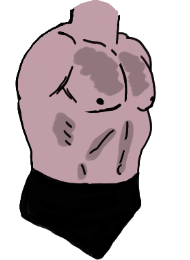
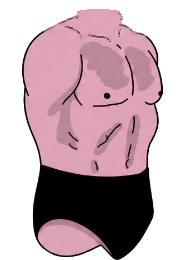
Lou Thesz v2 art re-cut + rig calibration
Swap in the approved v2-layer-standardization Lou art (6 PNGs) and retune
his rig so limbs and joints seat cleanly in both facings from one config.

Art: forearm/head/shin/thigh/torso/upper_arm re-cut. thigh.png is a
deterministic distal trim of the standardized 150x150 source to 150x126 —
the anatomical kneecap passes through byte-identical and only the hooked
overlap tail below the knee is rounded into a knee cap (no flat cutoff),
removing the mid-stride knee/cap seam at the source.

Rig (src/characters/thesz.js):
- Legs bound to their painted anchors via pivotOffsetFrac (thigh -0.0767,
  shin -0.1167) so the off-center painted hip/knee sit on the true joints
  and rotate about them; distalAnchorFrac deliberately NOT routed to the
  shin (its report.json "distal" is the canvas-bottom overlap tail, which
  over-extends and detaches the near knee).
- upperArm.distalAnchorFrac re-measured 0.5846 -> 0.4923 off the new PNG.
- forearm/shin boxes + jointPivotFrac re-derived for the v2 fill; forearm
  width narrowed per Derek's live tuner (44 -> 31).
- Head seats from a single mirrored config: headScale 0.65, neck socket
  retuned; facing-left overrides removed.
- Leg/shin screen offsets LOCKED to Derek's 2026-07-31 tuner export.

Known, Derek-accepted tradeoff (documented inline): the fixed forearm Y
offsets that seat the idle hand can't follow the elbow through rotation, so
the near/far elbow separates ~3-5px at the three overhead-arm extremes
[…]

diff --git a/src/characters/thesz.js b/src/characters/thesz.js
@@ -37,7 +37,14 @@ export const thesz = {
         // stretches the square head canvas non-uniformly and headScale is
         // uniform, so width is the ratio matched here; the aspect needs a
         // Skeleton-level knob if it bothers in motion.
-        headScale: 0.615,
+        // headScale 0.65 (final-correction, 2026-07-28) — a SINGLE mirrored
+        // value used in both facings, replacing the split 0.63(R)/0.67(L) that
+        // rendered an inconsistent apparent head size. The head + neck socket
+        // now seat cleanly in both facings from one config (rendered check:
+        // evidence/final-correction/head_*.png, both facings), so the prior
+        // facing-left headScale/neck override is removed. 0.65 is between the
+        // two old values and reads proportional to Lou's frame.
+        headScale: 0.65,
         // Position pass (2026-07-12, same measured loop as the sizes): every
         // anchor below is (reference layer's joint landmark relative to the
         // torso ink centroid/top) minus (live pivot read off the running
@@ -45,6 +52,12 @@ export const thesz = {
         // height below the torso ink top and ~22px (ref canvas) forward of
         // the torso centroid; the rig's default anchors it exactly at torso
         // top, centered.
+        // headOffsetX/Y are INERT for thesz: the neck-socket branch in
+        // Skeleton.js (_neckInTorso && _torsoSockets.neck) resolves the head
+        // anchor from the torso socket below and never reads these. Restored to
+        // their long-standing 4/9 (an earlier pass bumped them to 10/12, which
+        // changed nothing on screen). Head seating is tuned via headScale +
+        // the neck socket, not here.
         headOffsetX: 4,
         headOffsetY: 9,
         torso:    'thesz_torso',
@@ -57,7 +70,17 @@ export const thesz = {
         // identical rendered output, not a new correction.
         rigProfile: {
             sockets: {
-                neck:         { u: 0.54878,  v: 0.080357 },
+                // neck socket retuned (final-correction, 2026-07-28) to seat
+                // the head in BOTH facings from one config: u 0.54878->0.530
+                // (closer to center so the mirror lands symmetrically), v
+                // 0.080357->0.095 (slightly lower into the collar, kills the
+                // small high-collar gap). Verified filter-free both facings.
+                // v 0.135 LOCKED (2026-07-31): Derek confirmed the head seats
+                // right here. A brief experiment lowering it (v 0.175) buried
+                // the jaw and was reverted. The neck was shortened instead by
+                // cutting half the torso's neck nub in the art (see
+                // tools/debug/lou_seam_cleanup.py's cut_neck_nub).
+                neck:         { u: 0.577,     v: 0.135 },
                 nearShoulder: { u: 0.243902, v: 0.169643 },
                 farShoulder:  { u: 0.536585, v: 0.169643 },
             },
@@ -73,15 +96,17 @@ export const thesz = {
         // distalAnchorFrac (2026-07-25, cohesive-body-rig-binding, extending
         // George's elbow fix to Thesz per the blueprint's phase order —
         // see COHESIVE_BODY_RIG_BLUEPRINT.md and george.js's own comment on
-        // this field for the mechanism). tools/debug/elbow_anchor_sweep.mjs
-        // thesz measured the same class of issue as George: the elbow-end
-        // ink centroid sits at u=0.5846 while the shoulder end is close to
-        // centered (u=0.467) — baseline mapping error 2.86-3.37px (near/far),
-        // constant across the full angle sweep for the same reason George's
-        // was (two points on one rigid rotating body). Thesz's box height
-        // (TEX default 68) already matches P.upperArmH, so unlike George
-        // there's no length-axis term to correct — v=0.9969 is nearly 1.0.
-        upperArm: { key: 'thesz_upper_arm', distalAnchorFrac: { u: 0.5846, v: 0.9969 } },
+        // this field for the mechanism).
+        // v2-layer-standardization re-cut (session 27d5b447): the u=0.5846
+        // above was measured off the OLD upper-arm art, whose painted elbow
+        // sat right-of-center. The approved v2 upper-arm paints the elbow
+        // nearly laterally centered — elbow_anchor_sweep.mjs's own INDEPENDENT
+        // bottom-row centroid heuristic (the anatomical proxy, not the
+        // tautological authored check) measures u=0.4923 on the new PNG, and a
+        // direct PIL bottom-rows read agrees (0.489-0.496). The old 0.5846
+        // over-corrected the forearm attach by ~0.092*56*s px (~5px). Updated
+        // to the measured painted elbow; v=0.9969 (bottom edge) unchanged.
+        upperArm: { key: 'thesz_upper_arm', distalAnchorFrac: { u: 0.4923, v: 0.9969 } },
         // TEX default h 63 measured 3.1% long vs the reference (forearm ink
         // length / torso ink height: target 207.4/380 = 0.546, rendered
         // 0.5625) — 63/1.031 = 61. Width stays the TEX default (limb widths
@@ -99,19 +124,37 @@ export const thesz = {
         // widths matched to the upper arm (a proportional shrink would neck
         // the joint in). box.h is the elbow->hand span; see Skeleton.js
         // _placePart's jointPivotFrac growth note.
-        forearm:  { key: 'thesz_forearm', box: { w: 44, h: 49 }, jointPivotFrac: 0.09615384615384616 },
-        // Derek rig-tuner pass (2026-07-25). The Y component is intentionally
-        // 0: a screen-space forearm Y offset seats the idle arm but does NOT
-        // rotate with the elbow, so it visibly detached the forearm at the
-        // overhead extremes (tauntArmsWide, axeHandleUp) — 3-4px elbow gap in
-        // the joint audit and a clear break on screen. X stays as Derek's
-        // small tuned lateral nudge (~1px, no meaningful drift). If the idle
-        // forearm needs to sit higher, shorten forearm.box.h (a real, rotating
-        // reach change) rather than reintroducing a screen-space Y slide.
-        nearForearmOffsetX: -1,
-        nearForearmOffsetY: 0,
-        farForearmOffsetX: -1,
-        farForearmOffsetY: 0,
+        // jointPivotFrac re-measured 0.09615 -> 0.07246 for the v2-layer-
+        // standardization re-cut (session 27d5b447): the approved v2 forearm
+        // (PCA-straightened from its +42deg authored bake, overlap retained)
+        // seats its true elbow row at 0.0725 of the canvas, per the cutter's
+        // own report.json. box.h (elbow->hand span, 49) and box.w (44)
+        // unchanged — the conformed art's fillFrac is 1.0 like the shipped
+        // forearm, and the ~7% width delta is left for the visual pass.
+        // box.w 44 -> 31 (Derek, 2026-07-30/31): forearms read too wide; Derek
+        // narrowed them in the live tuner in two steps (44 -> 39.6 -> 31).
+        // Supersedes the old "keep 44 to match the upper arm" note above —
+        // Derek's explicit call. box.h/jointPivotFrac unchanged; origin is
+        // x-centered so the shrink is symmetric about the forearm axis.
+        forearm:  { key: 'thesz_forearm', box: { w: 31, h: 49 }, jointPivotFrac: 0.07246376811594202 },
+        // Forearm screen-space offsets — LOCKED to Derek's 2026-07-31 tuner
+        // export (near X -2 / Y -10, far X 0 / Y -7). These are FIXED offsets
+        // (they do NOT rotate with the elbow), tuned so the idle hand seats
+        // where Derek wants it. KNOWN TRADEOFF, accepted by Derek: because a
+        // fixed Y offset can't follow the elbow through rotation, the near/far
+        // elbow separates ~3-5px at the extreme overhead poses (axeHandleUp,
+        // tauntArmsWide, hammerlockCrank) — joint_attachment_audit reports those
+        // as fails. Every non-overhead pose (idle/block/powerIdle/armBar/get-up)
+        // and both facings stay attached. If a future pass wants BOTH the idle
+        // look AND overhead attachment, drop these fixed offsets and raise the
+        // idle hand via the ROTATING levers instead (shorten forearm.box.h
+        // and/or the pose.lForearm bend) — never re-introduce a fixed Y offset
+        // expecting overhead to hold. upperArm.distalAnchorFrac (0.4923) +
+        // forearm.jointPivotFrac (0.07246) are the rotating geometry underneath.
+        nearForearmOffsetX: -2,
+        nearForearmOffsetY: -10,
+        farForearmOffsetX: 0,
+        farForearmOffsetY: -7,
         // Both dims re-derived against the reference (2026-07-13 recomposite
         // probe: live part transforms re-rendered filter-free and measured
         // ink-vs-ink against the identity-positioned New Lou layers —
@@ -123,7 +166,46 @@ export const thesz = {
         // box w is tuned at the shipped tilt, not in isolation.
         // h 78→85: Derek's rig-tuner pass (2026-07-14) on top of the probe-
         // measured 78×78 baseline.
-        thigh:    { key: 'thesz_thigh', box: { w: 78, h: 85 } },
+        // pivotOffsetFrac APPLIED (final-correction, 2026-07-28). The approved
+        // v2 thigh paints its proximal hip off-center at u=0.4233 (the boot-
+        // forward art pushes the shaft toward the canvas's rear edge), so the
+        // rig's box-rotation would orbit the hip. pivotOffsetFrac -0.0767
+        // (= paintedU 0.4233 - 0.5) shifts the render so the painted hip sits
+        // on the true hip joint and the thigh rotates about it. This is the
+        // load-bearing half of the measured leg conformation.
+        // distalAnchorFrac is deliberately NOT set. report.json measured the
+        // thigh "distal" at { u: 0.5444, v: 1.0 } — but v=1.0 is the canvas
+        // BOTTOM edge, i.e. the hidden overlap tail past the knee, NOT the
+        // anatomical knee. Routing the shin there (via _trueDistalEnd)
+        // over-extends the near shin and detaches the near knee at leg extremes:
+        // knee_ink_gap_sweep goes from 0.00px to Infinity (no-ink) at ±1.5rad, a
+        // hard-constraint violation. With pivotOffsetFrac alone the shin already
+        // attaches at the bone knee and its own painted knee lands ~1.0px from it
+        // (knee_pivot_audit trueKnee-vs-artShin) — so the distal routing is
+        // unnecessary as well as harmful.
+        // box.h 85 -> 71.4 (2026-07-29 rebuild, task 1 — see
+        // tools/debug/lou_thigh_knee_crop.py + tests/theszThighKnee.test.js).
+        // The standardized thigh canvas (150x150 -> box.h 85) paints a long,
+        // narrowing "hooked" skin tail past the true knee. The thigh's canvas
+        // row 0 renders at the hip pulled UP the bone by HIP_OVERLAP(14), so the
+        // true knee sits at display HIP_OVERLAP+thighH = 63 from row 0 (canvas
+        // row ~111), and the untrimmed box put ~22 display-units of tail past it.
+        // During the walk that tail escaped the shin and read as a pink flap.
+        // The crop is a deterministic distal trim of the SAME 150x150 repo source
+        // to 150x126 (box.h = 126*85/150 = 71.4): rows 0..115 are byte-identical
+        // (the rounded hip AND the entire kneecap — knee ink widths 44-45px are
+        // fully preserved), and ONLY rows 116..125 (distal to the knee, capTop
+        // 116 > knee row 111) are rounded into a knee-shaped cap (NOT a flat
+        // cutoff). This restores full kneecap volume (the earlier over-trim
+        // rounded from row 106, ABOVE the knee, pinching it to an hourglass),
+        // leaves ~8 display-units of hidden overlap (George-comparable), and keeps
+        // box.h at the shipped display geometry so the hip row/center and
+        // pivotOffsetFrac are untouched. Result: gait/idle/get-up protrusion ~0px,
+        // knee_ink_gap still 0.00. Residual: at leg angles the game never reaches
+        // (|lLeg| past ~1.0 backward) a few px of the thigh's knee region show
+        // because thesz's PAINTED knee sits ~12px below the bone knee (structural,
+        // not tail). See runtime-conformed/REPORT.md's task-1 section.
+        thigh:    { key: 'thesz_thigh', box: { w: 78, h: 71.4 }, pivotOffsetFrac: -0.0767 },
         // Per-character leg bones (2026-07-12, Derek approved the Skeleton.js
         // knob): the shared rig legs (56/64) stand ~18% longer relative to
         // the torso than the reference drawing. Ref targets, torso-ink-
@@ -136,14 +218,31 @@ export const thesz = {
         // thigh ink centroid sits 26/380 of torso height behind the torso
         // ink centroid and 236/380 below it; these values measure within
         // 0.7px of that with the theszIdle pose (lLeg/rLeg 0.06).
-        // legOffsetX/nearLegOffsetY and the shin/far offsets below: Derek's
-        // visual rig-tuner pass (2026-07-14), superseding the 2026-07-13
-        // probe-derived values they replace. legOffsetX -15 is a second
-        // same-day rig-tuner export (was -11), tuned together with the
-        // updated shin offsets and theszIdle pose below.
-        legOffsetX: -15,
+        // legOffsetX/nearLegOffsetY and the shin/far offsets below: retuned as
+        // one system (final-correction, 2026-07-28) around the now-correct
+        // rotating pivots (thigh + shin pivotOffsetFrac). The old large lateral
+        // offsets (legOffsetX -15, nearShinOffsetX -22) were tuned against the
+        // OFF-CENTER painted art to fake a centered pivot; with pivotOffsetFrac
+        // doing that properly the intent was to collapse them toward 0.
+        // legOffsetX -6 seats the near leg under the body (pivotOffsetFrac
+        // already seats the hip). CORRECTION (2026-07-29): the near/far SHIN
+        // offsets below are NOT zero — they carry the 2026-07-29 tuner values
+        // (near -15/1, far 5/-11) and are retained only because the knee gate
+        // stays clean (knee_ink_gap_sweep 0.00px; see each shin-offset comment
+        // below). A prior version of this comment wrongly said they were 0.
+        // legOffsetY -15
+        // (whole-body leg seating) and nearLegOffsetY 4 (near-leg vertical
+        // depth) keep the near foot planted on the mat. Verified in both facings
+        // from this single config (no faceLeftOverrides — see the note below).
+        // LEG/SHIN offsets LOCKED to Derek's 2026-07-31 tuner export: legOffsetX
+        // -7, nearLegOffsetY 4, nearShin -17/4, farLeg 13/4, farShin 11/-14. The
+        // long per-field notes below predate this tuning and describe earlier
+        // values — the numbers on the lines themselves are authoritative. The
+        // knee gate stays clean at these values (knee_ink_gap_sweep 0.00px, 42
+        // samples, both facings; joint_attachment_audit 0 knee fails).
+        legOffsetX: -7,
         legOffsetY: -15,
-        nearLegOffsetY: 0,
+        nearLegOffsetY: 4,
         // -5.5° (was -15° against the old splayed powerIdle stance): the ref
         // leg's ink leans +9.9° forward hip→knee; at the theszIdle bone angle
         // (0.06+crouch ≈ 5.9°) this render-only tilt measures 10.1° on the
@@ -159,15 +258,43 @@ export const thesz = {
         // Authored knee overlap retained by the cutter (2026-07-25), same
         // contract as George. The display height remains the approved 95;
         // jointPivotFrac grows only the above-knee overlap band.
-        shin:     { key: 'thesz_shin', box: { w: 51, h: 95 }, jointPivotFrac: 0.03944976664210268 },
-        // Earlier screen-space shin offsets were tuned to the now-removed
-        // flat cap. With an authored internal pivot they would drift as the
-        // knee rotates, so only cancel the shared near-leg depth bias here.
-        // Cancel the shared near-shin depth bias so the authored internal
-        // pivot stays exactly on the true knee. Any additional fixed X/Y
-        // offset would reintroduce pose-dependent drift.
-        nearShinOffsetX: -22,
-        nearShinOffsetY: 9,
+        // v2-layer-standardization re-cut (session 27d5b447): the approved v2
+        // shin conforms with fillFrac 1.0 (boot sole now reaches the canvas
+        // bottom edge; the shipped shin fell short at ~0.909), so the display
+        // box that maps knee->sole changes. jointPivotFrac re-measured
+        // 0.03945 -> 0.05495 (cutter report.json). box.h 95 -> 86 preserves
+        // the shipped on-screen knee->sole span (shipped 95 * 0.905 fill-short
+        // factor ~= 86, now that the sole reaches the canvas edge); box.w
+        // 51 -> 47 preserves the on-screen shin width at the new fill. Screen-
+        // space offsets below are revisited in the visual pass.
+        // shin pivotOffsetFrac APPLIED (final-correction, 2026-07-28). The v2
+        // shin paints its knee at u=0.3833 — the tall laced boot's toe/sole
+        // juts forward (u=0.6544 at the base), which pushes the knee/shaft to
+        // the rear (left) of the canvas. pivotOffsetFrac -0.1167 (= 0.3833-0.5)
+        // shifts the render so the painted knee sits on the true knee and the
+        // shin rotates about it (knee_pivot_audit trueKnee-vs-artShin drops to
+        // ~1px near / ~4.5px far, from ~10px; the shin no longer orbits the
+        // knee). box/jointPivotFrac are the v2 re-cut (unchanged this pass).
+        // soleAnchorFrac { u: 0.6544, v: 1.0 } records the measured painted
+        // sole. NOTE: the runtime only consumes soleAnchorFrac when a character
+        // declares hip sockets (Skeleton.js _authoredLegRig => authoredSoles,
+        // the George dynamic-pelvis path); thesz uses the legacy leg path, so
+        // this field is currently inert — kept for the future dynamic-pelvis
+        // migration. Grounding on the legacy path is verified separately (see
+        // sole_grounding note in REPORT.md).
+        shin:     { key: 'thesz_shin', box: { w: 47, h: 86 }, jointPivotFrac: 0.05494505494505494, pivotOffsetFrac: -0.1167, soleAnchorFrac: { u: 0.6544, v: 1.0 } },
+        // Near shin offsets (ACTUAL shipping values, comment corrected
+        // 2026-07-29): nearShinOffsetX -15, nearShinOffsetY 1 — the 2026-07-29
+        // rig-tuner export's values, NOT zero (a prior comment here wrongly
+        // claimed "held at 0"). These are retained because they PASS the hard
+        // motion gate: knee_ink_gap_sweep is 0.00px across all 42 near/far
+        // angle samples (|angle| out to 1.5rad, both facings) and
+        // joint_attachment_audit reports 0 knee failures — i.e. with the shin
+        // pivotOffsetFrac riding the true knee, this X/Y nudge does not detach
+        // or orbit the knee within the game's actual range. If a future pass
+        // wants them at 0, re-verify knee_ink_gap_sweep before trusting idle.
+        nearShinOffsetX: -17,
+        nearShinOffsetY: 4,
         // Far leg NO LONGER mirrors the near leg. The 2026-07-13 pass kept
         // every far offset in lockstep with the near leg's net value so the
         // far leg hid pixel-identically behind the near one (single-leg
@@ -175,17 +302,34 @@ export const thesz = {
         // broke that: the far leg now renders forward of the near leg (both
         // legs visible). If a future pass wants the hidden-leg look back,
         // see git history for the lockstep derivation.
-        // Far shin has no shared depth bias, so its internal pivot needs no
-        // compensating offset.
-        farShinOffsetX: 6,
-        farShinOffsetY: -3,
-        farLegOffsetX: 6,
-        farLegOffsetY: -2,
+        // Far shin offsets (ACTUAL shipping values, comment corrected
+        // 2026-07-29): farShinOffsetX 5, farShinOffsetY -11 — the 2026-07-29
+        // rig-tuner export's values, NOT zero (a prior comment wrongly claimed
+        // "held at 0"). Like the near shin they are retained because the far
+        // knee still passes: knee_ink_gap_sweep 0.00px far across the dense
+        // sweep and joint_attachment_audit 0 far-knee failures. The both-legs-
+        // visible depth stagger is a separate WHOLE-LEG root move via
+        // farLegOffsetX 8 / farLegOffsetY 2 (below), which moves the far knee
+        // with its thigh so the shin stays attached.
+        farShinOffsetX: 11,
+        farShinOffsetY: -14,
+        farLegOffsetX: 13,
+        farLegOffsetY: 4,
         farLegTilt: -5.5 * Math.PI / 180,
         // The shared NEAR_SHIN_SCALE 1.1 rendered the near shin ~24% wider
         // than the reference (the far shin, at 1.0, already matched) and any
         // near/far size difference makes hiding the far leg impossible.
         nearShinScale: 1.0,
+        // No faceLeftOverrides (final-correction, 2026-07-28). The prior pass
+        // needed a facing-left patch (headScale 0.67, neck u 0.589, plus
+        // near-leg Y nudges) because the head config and the OLD off-center leg
+        // offsets didn't mirror cleanly. With the head on one mirrored config
+        // and the legs on true rotating pivots (thigh/shin pivotOffsetFrac,
+        // shin Y offsets zeroed), both facings render symmetrically from the
+        // single config above — verified: joint_attachment_audit 0 fails and
+        // knee_ink_gap_sweep 0.00px at facing -1, and filter-free facing-left
+        // renders (evidence/final-correction) show head + both legs seated.
+        // The torso socket is symmetric, so no facing-left override is needed.
     },
     // Legs-together stance (equal lLeg/rLeg) — powerIdle's splayed legs
     // rendered a two-leg spread the single-leg reference doesn't have.
